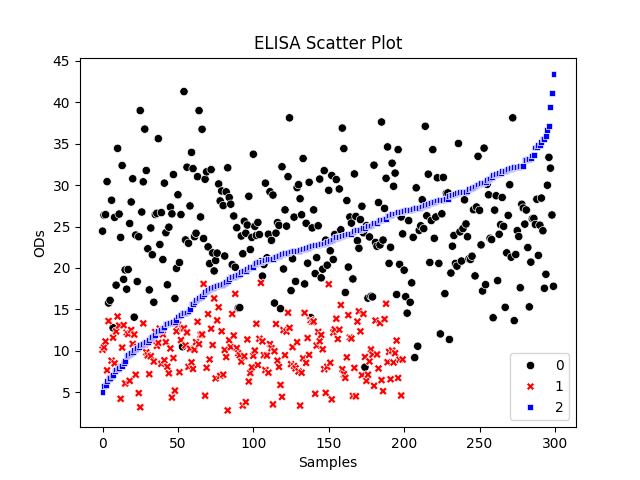
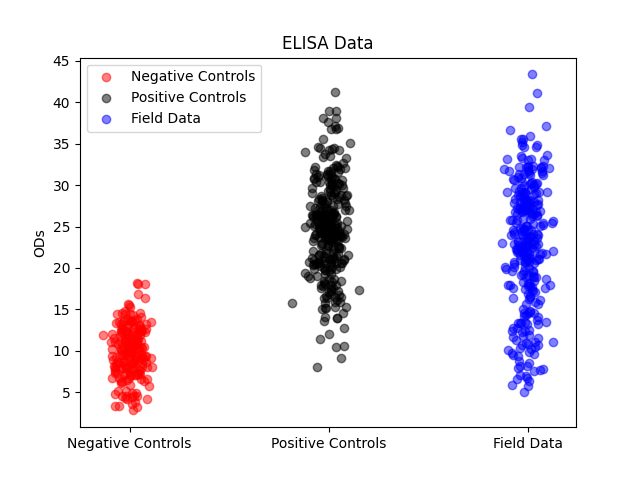
graph fix

diff --git a/hw4/q3/plot_assay.py b/hw4/q3/plot_assay.py
@@ -1,5 +1,5 @@
 import argparse
-import seaborn as sns
+import numpy as np
 import matplotlib
 import matplotlib.pyplot as plt
 matplotlib.use('Agg')
@@ -35,14 +35,24 @@ def main():
     
     # Read CSV files
     files = [args.pos_data, args.neg_data, args.field_data]
-    all_data = read_csvs(files)
+    data = read_csvs(files)
+    
+    fig, ax = plt.subplots()
+    # negative controls
+    ax.scatter(np.random.normal(1, 0.05, len(data[1])), data[1], color='red', alpha=0.5, label='Negative Controls')
+    # positive controls with black color
+    ax.scatter(np.random.normal(2, 0.05, len(data[0])), data[0], color='black', alpha=0.5, label='Positive Controls')
+    # field data with blue color
+    ax.scatter(np.random.normal(3, 0.05, len(data[2])), data[2], color='blue', alpha=0.5, label='Field Data')
 
-    custom_palette = {0: 'black', 1: 'red', 2: 'blue'}  
-    sns.scatterplot(data=all_data,palette=custom_palette)
-    plt.xlabel('Samples')
-    plt.ylabel('ODs')
-    plt.title('ELISA Scatter Plot')
+    # Add legend
+    ax.legend()
+    # ax.set_xlabel('Samples')
+    ax.set_ylabel('ODs')
+    ax.set_title('ELISA Data')
+    ax.set_xticks([1, 2, 3])
+    ax.set_xticklabels(['Negative Controls', 'Positive Controls', 'Field Data'])
     plt.savefig(args.output_file)
-
+    
 if __name__ == '__main__':
     main()
